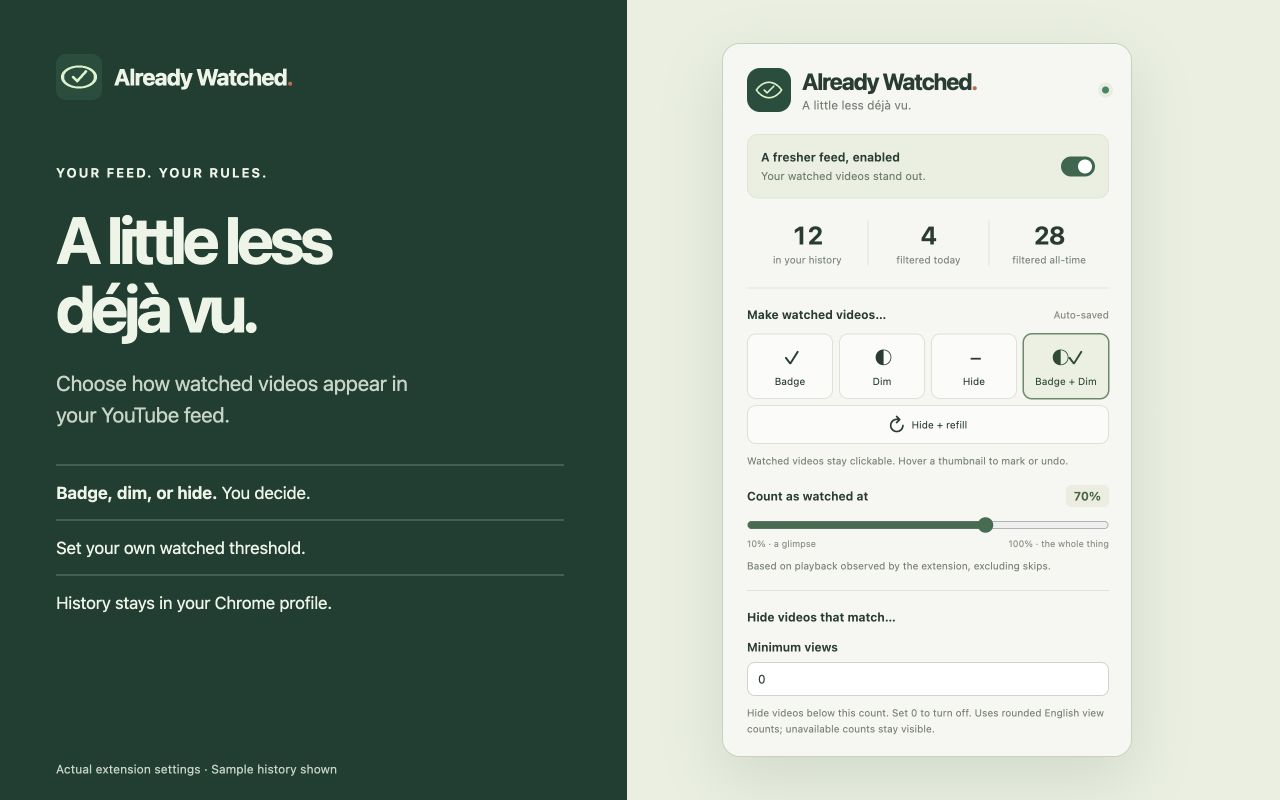
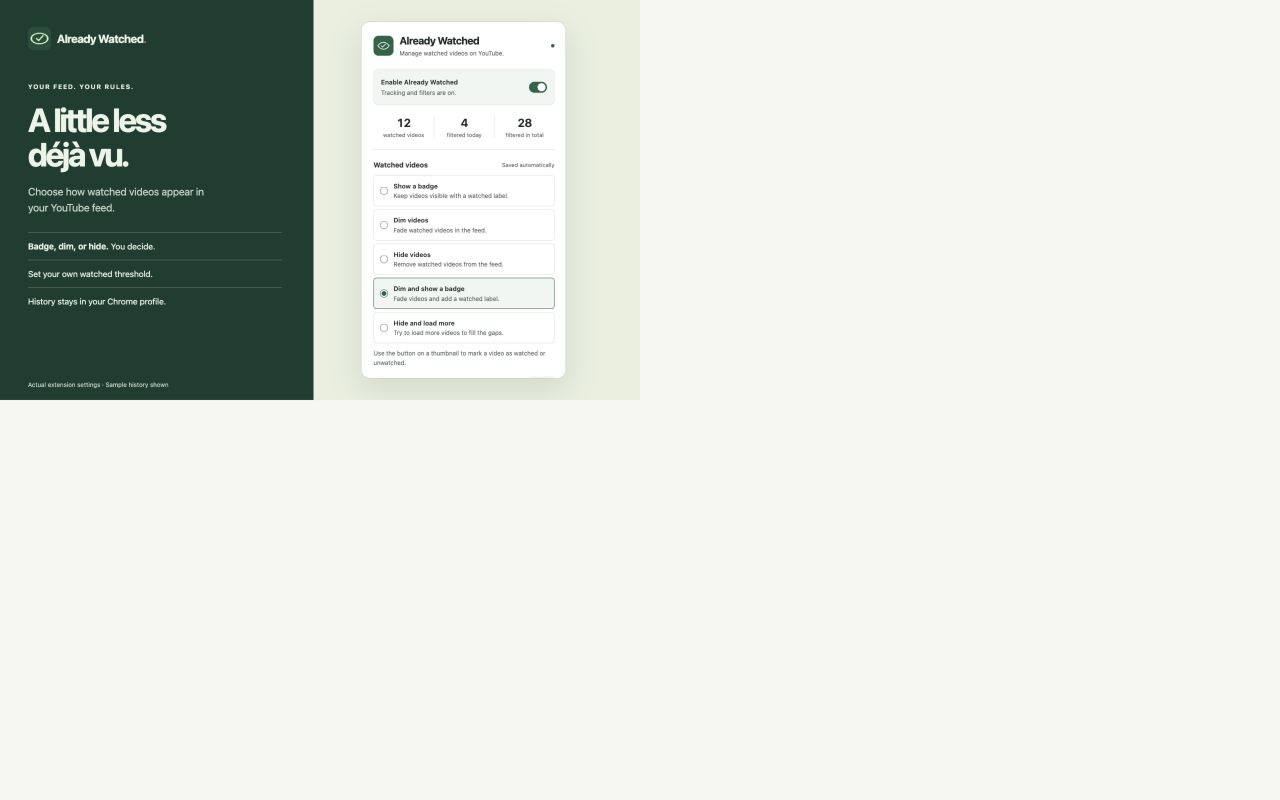
Match release screenshot and copy to the latest settings UI

diff --git a/store/listing.md b/store/listing.md
@@ -22,7 +22,7 @@ A quieter YouTube feed. Mark, dim, or hide videos you've already watched. Privat
 A little less déjà vu. Already Watched helps you recognise videos you've seen and make room for something new on desktop YouTube.
 
 CHOOSE HOW WATCHED VIDEOS APPEAR
-Add a watched badge, gently dim watched cards, combine both, or hide them. With Hide + refill, the extension also tries to load more recommendations when the remaining feed is short. Refilling depends on YouTube and the watch history known to the extension.
+Add a watched badge, gently dim watched cards, combine both, or hide them. With Hide and load more, the extension also tries to load more recommendations when the remaining feed is short. Refilling depends on YouTube and the watch history known to the extension.
 
 BUILD YOUR HISTORY AS YOU WATCH
 Choose a watched threshold from 10% to 100%. Already Watched records the playback segments it observes, so skipping ahead does not count as watching the skipped section. You can also use YouTube's existing thumbnail progress bars as watched indicators.
@@ -36,7 +36,7 @@ Optional filters hide playlists and Mixes, Shorts on Home, and supported Playabl
 YOUR HISTORY STAYS LOCAL
 Video IDs, titles, playback progress, timestamps, settings, and filtering statistics stay in this Chrome profile. No extension account, analytics service, cloud sync, or developer server receives your extension data. Clear watched history in the popup or Options page, or uninstall to remove local extension data.
 
-Already Watched makes no direct network requests. Hide + refill can trigger YouTube's own normal recommendation requests. It does not change YouTube's recommendation algorithm or guarantee that every remaining video is new to you.
+Already Watched makes no direct network requests. Hide and load more can trigger YouTube's own normal recommendation requests. It does not change YouTube's recommendation algorithm or guarantee that every remaining video is new to you.
 
 Works on supported desktop YouTube feeds and players, including Home, Search, Subscriptions, channel pages, recommendations, and supported Shorts layouts. YouTube changes its layouts regularly, so some layouts or experiments may not be supported. Chrome 114 or later is required.
 
@@ -58,13 +58,13 @@ The feed demonstration is not a screenshot of a live YouTube page. The actual se
 
 No extension login, payment, API key, or test credentials are required. Open desktop YouTube and refresh tabs opened before installation. Some YouTube surfaces depend on the reviewer's own YouTube sign-in; core marking and settings can be tested without an extension account.
 
-1. Open the extension popup. Verify Badge + Dim and a 70% threshold are the defaults.
+1. Open the extension popup. Verify Dim and show a badge and a 70% threshold are the defaults.
 2. Hover a video thumbnail and mark it watched. Verify the badge and dimming, then mark it unwatched to undo.
-3. Switch to Hide and confirm a manually watched card disappears. Switch back to restore it.
+3. Switch to Hide videos and confirm a manually watched card disappears. Switch back to restore it.
 4. Set a low watched threshold, play a fresh finite video, and confirm only observed playback contributes. Skipping ahead should not count the skipped section.
 5. On a page with qualifying YouTube progress bars, use the popup scan command. It scans the cards already rendered on that page.
 6. Toggle optional feed filters. Disable each to restore matching cards or sections. Unknown view counts are not removed by the minimum-views filter.
-7. Select Hide + refill on a supported sparse feed containing watched cards. Refilling is best effort, capped at five extension-initiated loads per page visit, and stops after two attempts with no new video IDs.
+7. Select Hide and load more on a supported sparse feed containing watched cards. Refilling is best effort, capped at five extension-initiated loads per page visit, and stops after two attempts with no new video IDs.
 8. Clear watched history using the confirmation inside the popup. Settings remain; history and statistics are reset. YouTube progress hints may still appear while enabled.
 
 ## Source requirements checked on 6 September 2026

diff --git a/store/README.md b/store/README.md
@@ -26,7 +26,7 @@ If `manifest.version` has already been uploaded to the store, increase it before
 
 Run `node store/preview.mjs` from the repository root after building the extension. The local-only routes `/settings`, `/feed`, and `/promo` render the artwork. Capture the first two at 1280×800 and the promotional tile at 440×280. Screenshots were exported as JPEG; the icon remains PNG. No personal YouTube feed, history, account details, third-party thumbnails, or generated representations of real YouTube creators are used.
 
-The preview API is not an extension storage backend. Its values are synthetic, and it is never bundled into the upload package. Settings and badges are rendered from the actual application/production implementation. Update the screenshots if the shipped interface changes materially.
+Use `node store/preview.mjs --release` after packaging to render the popup from the fixed, tested release snapshot even if the workspace is being edited. The preview API is not an extension storage backend. Its values are synthetic, and it is never bundled into the upload package. Settings and badges are rendered from the actual application/production implementation. Update the screenshots if the shipped interface changes materially.
 
 ## Privacy-page source
 

diff --git a/store/privacy-disclosures.md b/store/privacy-disclosures.md
@@ -24,7 +24,7 @@ Use the same justification if the dashboard presents the two host patterns separ
 
 Select: No, I am not using remote code.
 
-Explanation if requested: All JavaScript, CSS, React code, and icons are bundled with the extension. No remotely hosted scripts, executable code downloads, eval-based code loading, CDN dependencies, or remote WebAssembly are used. Hide + refill invokes YouTube's existing page controls; it does not fetch or execute remote extension code.
+Explanation if requested: All JavaScript, CSS, React code, and icons are bundled with the extension. No remotely hosted scripts, executable code downloads, eval-based code loading, CDN dependencies, or remote WebAssembly are used. The refill option invokes YouTube's existing page controls; it does not fetch or execute remote extension code.
 
 ## Data types
 
